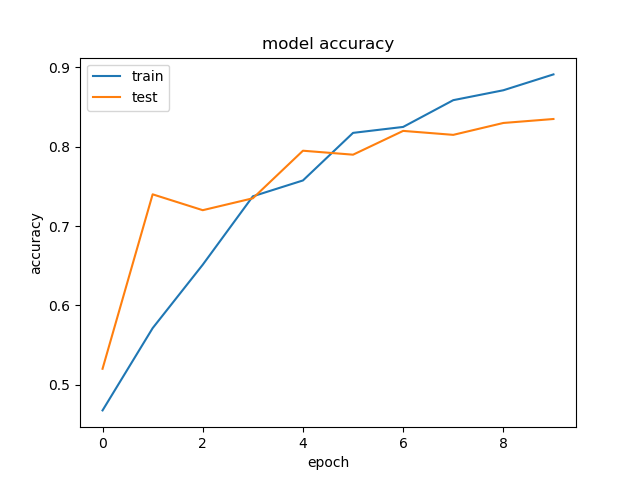
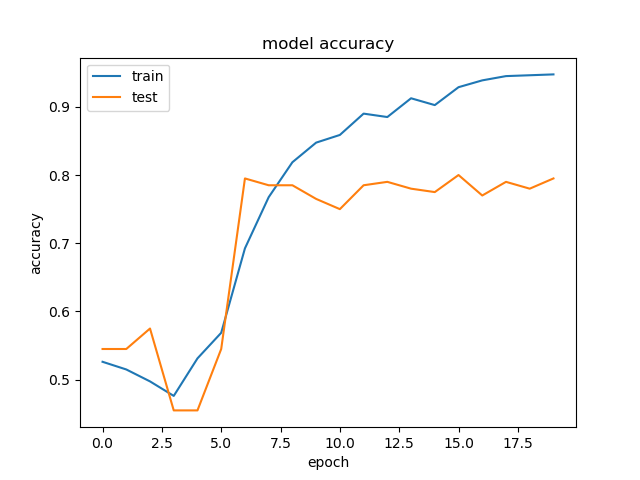
last day change

diff --git a/LSTM.py b/LSTM.py
@@ -1,0 +1,189 @@
+import os
+from collections import Counter
+import random
+import keras
+import tensorflow as tf
+import numpy as np
+import sherpa
+import matplotlib.pyplot as plt
+from keras import backend as K
+from gensim.models import Word2Vec
+from keras.models import Sequential
+from keras.layers import Dense, Dropout, Flatten, Input
+from keras.layers import Conv1D, MaxPooling1D
+from keras.layers import Embedding, CuDNNLSTM
+from keras.layers import Bidirectional, BatchNormalization, SpatialDropout1D
+from keras.preprocessing.text import Tokenizer
+from nltk.tokenize.regexp import RegexpTokenizer
+from keras.preprocessing.sequence import pad_sequences
+#from keras.optimizers import SGD
+
+if __name__ == "__main__":
+    gpuid = 0  # An index of which gpu to use.
+    os.environ['KERAS_BACKEND'] = 'tensorflow'
+    # (Empty) List of gpu indices that TF can see.
+    os.environ['CUDA_VISIBLE_DEVICES'] = "{}".format(gpuid)
+    # Only use a single GPU.
+    CONFIG = tf.ConfigProto(
+        device_count={'GPU': 1}, log_device_placement=False, allow_soft_placement=False)
+    # Prevents tf from grabbing all gpu memory.
+    CONFIG.gpu_options.allow_growth = True
+    sess = tf.Session(config=CONFIG)
+    K.set_session(sess)
+
+    text, y = [], []
+    with open('sentiment labelled sentences\\sentiment labelled sentences\\amazon_cells_labelled.txt') as f:
+        a = f.readlines()
+
+    # random.shuffle(a)
+    for t in a:
+        c, b = t.split('\t')
+        text.append(c)
+        y.append(int(b))
+
+    # Simple Word embedding method
+    # word embedding
+    # tok = Tokenizer()
+    # tok.fit_on_texts(set(sum([x.split() for x in text], [])))
+    # print(tok.document_count)
+
+    # # find the max sentence(we can set by ourselves if we know the number)
+    # max_len = max([len(x.split()) for x in text])
+    # nb_words = len(tok.word_index) + 1
+    # data = pad_sequences(tok.texts_to_sequences(
+    #     text), maxlen=max_len, padding='post')
+
+    # Word2Vec Embedding
+    tok = RegexpTokenizer(r'\w+|\!|\?|\.')
+
+    vocab = Counter()
+
+    def text_to_wordlist(text, lower=True):
+        '''
+        convert single sentence into a list of words that contains punctuation !?.
+        '''
+        text = tok.tokenize(text)
+
+        if lower:
+            text = [i.lower() for i in text]
+
+        vocab.update(text)
+        return text
+
+    def process_sentence(sentences, lower=True):
+        return [text_to_wordlist(sent, lower=lower) for sent in sentences]
+
+    comment = process_sentence(text)
+
+    print(len(vocab))
+
+    # Word2Vec vetorizing words
+    model = Word2Vec(comment, workers=16)
+    wordvec = model.wv
+    print(len(wordvec.vocab))
+
+    max_nb_word = len(wordvec.vocab)
+    max_len = max(len(i) for i in comment)
+
+    word_index = {t[0]: i + 1 for i,
+                  t in enumerate(vocab.most_common(max_nb_word))}
+
+    '''
+    sequences = [[word_index.get(t, 0) for t in c]
+                for c in comment[:900]]
+    test_sequences = [[word_index.get(t, 0) for t in c]
+                    for c in comment[900:]]
+    '''
+    sequences = [[word_index.get(t, 0) for t in c]
+                 for c in comment]
+    data = pad_sequences(sequences, maxlen=max_len, padding='post')
+
+    x_train = data[:900]
+    x_test = data[900:]
+    y_train = y[:900]
+    y_test = y[900:]
+
+    wv_dim = 20
+
+    nb_words = min(max_nb_word, len(wordvec.vocab))+1
+    # we initialize the matrix with random numbers
+    wv_matrix = (np.random.rand(nb_words, wv_dim) - 0.5) / 5.0
+    for word, i in word_index.items():
+        if i >= max_nb_word:
+            continue
+        try:
+            embedding_vector = wordvec[word]
+            # words not found in embedding index will be all-zeros.
+            wv_matrix[i] = embedding_vector
+        except:
+            pass
+
+    print(max_len)
+    # Bidirectional Neural Networks
+    nn_model = Sequential()
+    nn_model.add(Embedding(nb_words, wv_dim, mask_zero=False, weights=[
+        wv_matrix], input_length=max_len))
+    # nn_model.add(Embedding(nb_words, wv_dim,
+    #                        mask_zero=False, input_length=max_len))
+
+    # nn_model.add(SpatialDropout1D(0.2))
+    nn_model.add(Bidirectional(CuDNNLSTM(30)))
+    nn_model.add(Dropout(0.1))
+
+    # nn_model.add(BatchNormalization())
+    nn_model.add(Dense(1, activation='sigmoid'))
+    nn_model.compile(loss='binary_crossentropy',
+                     optimizer='adam', metrics=['accuracy'])
+    '''
+    # Convelutional Neural Networks
+    nn_model.add(Dropout(0.1))
+
+    # layer 1
+    nn_model.add(Conv1D(64, 5, activation='relu'))
+    nn_model.add(MaxPooling1D(5))
+
+    # layer 2
+    # model.add(Conv1D(64, 5, activation = 'relu'))
+    # model.add(MaxPooling1D(5))
+
+    # layer 3
+    # model.add(Conv1D(64, 5, activation = 'relu'))
+    # model.add(MaxPooling1D(5))
+
+    # flatten
+    nn_model.add(Flatten())
+
+    # dense
+    nn_model.add(Dense(64, activation='relu'))
+    nn_model.add(Dropout(0.3))
+    nn_model.add(Dense(1, activation='sigmoid'))
+
+    # training and get score
+    nn_model.compile(loss='binary_crossentropy',
+                    optimizer='adam', metrics=['accuracy'])
+    '''
+    nn_model.summary()
+    history = nn_model.fit(data, y, validation_split=0.2,
+                           batch_size=30, epochs=20)
+    score = nn_model.evaluate(x_train, y_train)
+    print("Training Accuracy: {:.4f}".format(score[1]))
+    score = nn_model.evaluate(x_test, y_test)
+    print("Testing Accuracy: {:.4f}".format(score[1]))
+    print(history.history.keys())
+    # summarize history for loss
+    plt.plot(history.history['loss'])
+    plt.plot(history.history['val_loss'])
+    plt.title('model loss')
+    plt.ylabel('loss')
+    plt.xlabel('epoch')
+    plt.legend(['train', 'test'], loc='upper left')
+    plt.show()
+
+    # summarize history for accuracy
+    plt.plot(history.history['acc'])
+    plt.plot(history.history['val_acc'])
+    plt.title('model accuracy')
+    plt.ylabel('accuracy')
+    plt.xlabel('epoch')
+    plt.legend(['train', 'test'], loc='upper left')
+    plt.show()

diff --git a/cnn_lstm.py b/cnn_lstm.py
@@ -4,6 +4,7 @@ import random
 import keras
 import tensorflow as tf
 import numpy as np
+import sherpa
 import matplotlib.pyplot as plt
 from keras import backend as K
 from gensim.models import Word2Vec
@@ -15,7 +16,6 @@ from keras.layers import Bidirectional, BatchNormalization, SpatialDropout1D
 from keras.preprocessing.text import Tokenizer
 from nltk.tokenize.regexp import RegexpTokenizer
 from keras.preprocessing.sequence import pad_sequences
-#from keras.optimizers import SGD
 
 gpuid = 0  # An index of which gpu to use.
 os.environ['KERAS_BACKEND'] = 'tensorflow'
@@ -29,7 +29,6 @@ CONFIG.gpu_options.allow_growth = True
 sess = tf.Session(config=CONFIG)
 K.set_session(sess)
 
-
 text, y = [], []
 with open('sentiment labelled sentences\\sentiment labelled sentences\\amazon_cells_labelled.txt') as f:
     a = f.readlines()
@@ -39,18 +38,6 @@ for t in a:
     c, b = t.split('\t')
     text.append(c)
     y.append(int(b))
-
-# Simple Word embedding method
-# word embedding
-# tok = Tokenizer()
-# tok.fit_on_texts(set(sum([x.split() for x in text], [])))
-# print(tok.document_count)
-
-# # find the max sentence(we can set by ourselves if we know the number)
-# max_len = max([len(x.split()) for x in text])
-# nb_words = len(tok.word_index) + 1
-# data = pad_sequences(tok.texts_to_sequences(
-#     text), maxlen=max_len, padding='post')
 
 # Word2Vec Embedding
 tok = RegexpTokenizer(r'\w+|\!|\?|\.')
@@ -90,13 +77,6 @@ max_len = max(len(i) for i in comment)
 word_index = {t[0]: i + 1 for i,
               t in enumerate(vocab.most_common(max_nb_word))}
 
-
-'''
-sequences = [[word_index.get(t, 0) for t in c]
-             for c in comment[:900]]
-test_sequences = [[word_index.get(t, 0) for t in c]
-                  for c in comment[900:]]
-'''
 sequences = [[word_index.get(t, 0) for t in c]
              for c in comment]
 data = pad_sequences(sequences, maxlen=max_len, padding='post')
@@ -106,8 +86,7 @@ x_test = data[900:]
 y_train = y[:900]
 y_test = y[900:]
 
-
-wv_dim = 100
+wv_dim = 50
 
 nb_words = min(max_nb_word, len(wordvec.vocab))+1
 # we initialize the matrix with random numbers
@@ -127,11 +106,12 @@ print(max_len)
 nn_model = Sequential()
 nn_model.add(Embedding(nb_words, wv_dim, mask_zero=False, weights=[
     wv_matrix], input_length=max_len))
-# nn_model.add(Embedding(nb_words, wv_dim,
-#                        mask_zero=False, input_length=max_len))
 
-nn_model.add(SpatialDropout1D(0.2))
-nn_model.add((CuDNNLSTM(15)))
+# nn_model.add(SpatialDropout1D(0.2))
+nn_model.add(Dropout(0.1))
+nn_model.add(Conv1D(64, 5, activation='relu'))
+nn_model.add(MaxPooling1D(10))
+nn_model.add(Bidirectional(CuDNNLSTM(20)))
 nn_model.add(Dropout(0.1))
 
 # nn_model.add(BatchNormalization())
@@ -139,13 +119,6 @@ nn_model.add(Dense(1, activation='sigmoid'))
 nn_model.compile(loss='binary_crossentropy',
                  optimizer='adam', metrics=['accuracy'])
 '''
-# Convelutional Neural Networks
-nn_model.add(Dropout(0.1))
-
-# layer 1
-nn_model.add(Conv1D(64, 5, activation='relu'))
-nn_model.add(MaxPooling1D(5))
-
 # layer 2
 # model.add(Conv1D(64, 5, activation = 'relu'))
 # model.add(MaxPooling1D(5))
@@ -164,13 +137,10 @@ nn_model.add(Dense(1, activation='sigmoid'))
 
 # training and get score
 nn_model.compile(loss='binary_crossentropy',
-                 optimizer='adam', metrics=['accuracy'])
+                optimizer='adam', metrics=['accuracy'])
 '''
-print(nn_model.summary())
-for layer in nn_model.layers:
-    print(layer.input_shape)
 history = nn_model.fit(data, y, validation_split=0.2,
-                       batch_size=30, epochs=10)
+                       batch_size=30, epochs=20)
 score = nn_model.evaluate(x_train, y_train)
 print("Training Accuracy: {:.4f}".format(score[1]))
 score = nn_model.evaluate(x_test, y_test)
